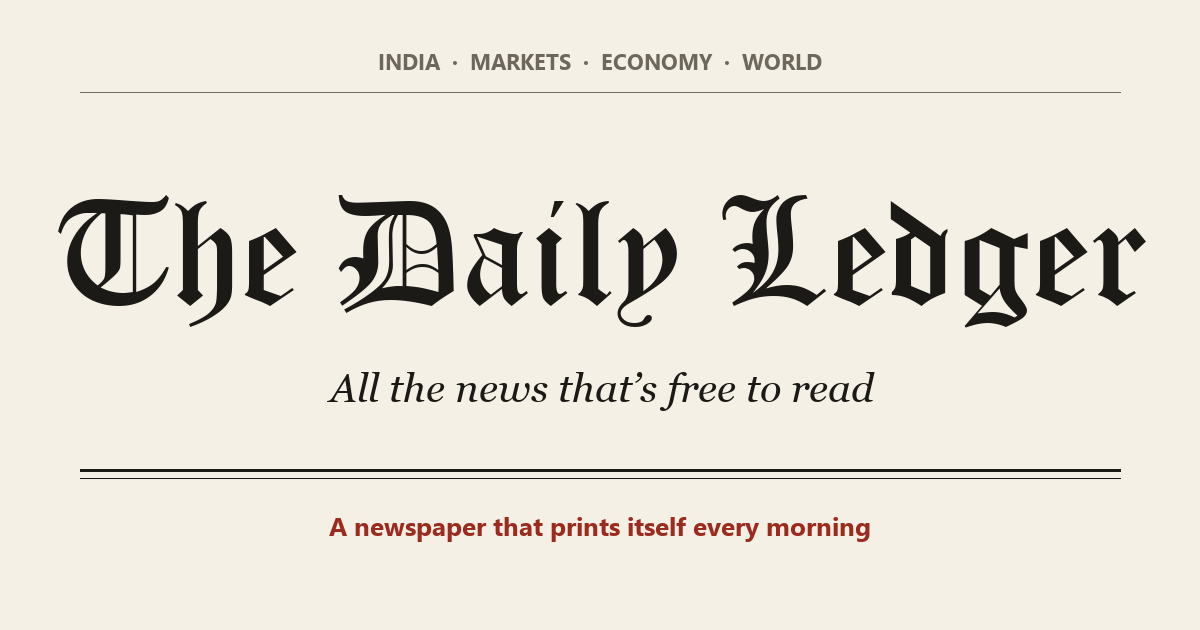
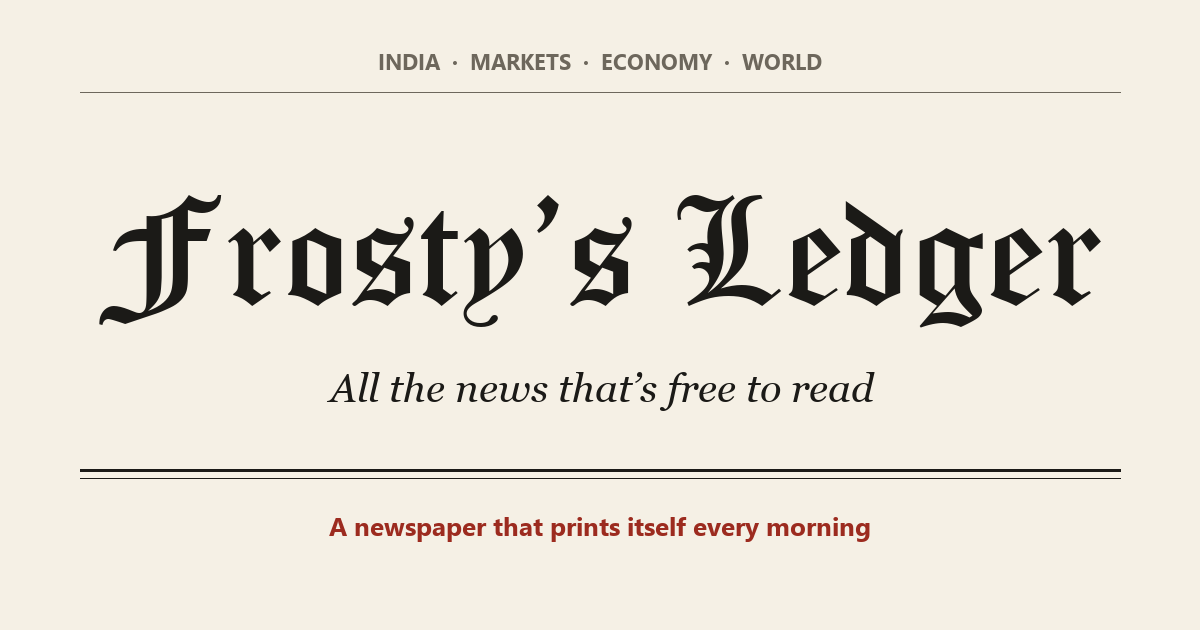
Rename the paper to Frosty's Ledger
New masthead, page titles, link-preview card and phone app name, and the
site moves to frosty6699.github.io/frostys-ledger to match.

Changed region(s): [[0.0308, 0.3016, 0.9558, 0.5127]]

diff --git a/build_paper.py b/build_paper.py
@@ -1,4 +1,4 @@
-"""The Daily Ledger - a morning newspaper that prints itself.
+"""Frosty's Ledger - a morning newspaper that prints itself.
 
 Reads headlines and the publisher-written summaries from public RSS feeds,
 groups the same story across papers, sorts everything into sections and
@@ -39,12 +39,12 @@ CACHE = ROOT / "cache"
 LOGS = ROOT / "logs"
 IST = timezone(timedelta(hours=5, minutes=30))
 
-PAPER = "The Daily Ledger"
+PAPER = "Frosty’s Ledger"
 MOTTO = "All the news that’s free to read"
 # Where the paper lives online. Absolute links (Google, link previews, the sitemap) start here.
-SITE_URL = os.environ.get("SITE_URL", "https://frosty6699.github.io/daily-ledger/")
+SITE_URL = os.environ.get("SITE_URL", "https://frosty6699.github.io/frostys-ledger/")
 AUTHOR = "frosty6699"
-REPO_URL = "https://github.com/frosty6699/daily-ledger"
+REPO_URL = "https://github.com/frosty6699/frostys-ledger"
 GOOGLE_VERIFICATION = ""  # the code from Search Console's "HTML tag" option, if you verify that way
 DESCRIPTION = ("A free newspaper that prints itself every morning: the day’s top business, markets, "
                "economy, tech and world stories from The Economic Times, Business Standard, Mint, "

diff --git a/README.md b/README.md
@@ -1,8 +1,8 @@
-# The Daily Ledger
+# Frosty's Ledger
 
-![The Daily Ledger](assets/og.png)
+![Frosty's Ledger](assets/og.png)
 
-**Read it: [frosty6699.github.io/daily-ledger](https://frosty6699.github.io/daily-ledger/)**
+**Read it: [frosty6699.github.io/frostys-ledger](https://frosty6699.github.io/frostys-ledger/)**
 
 A free newspaper that prints itself every morning. At about 6 AM India time, a small Python program
 reads the public RSS feeds of 20 publishers and builds the day's paper. The publishers include
